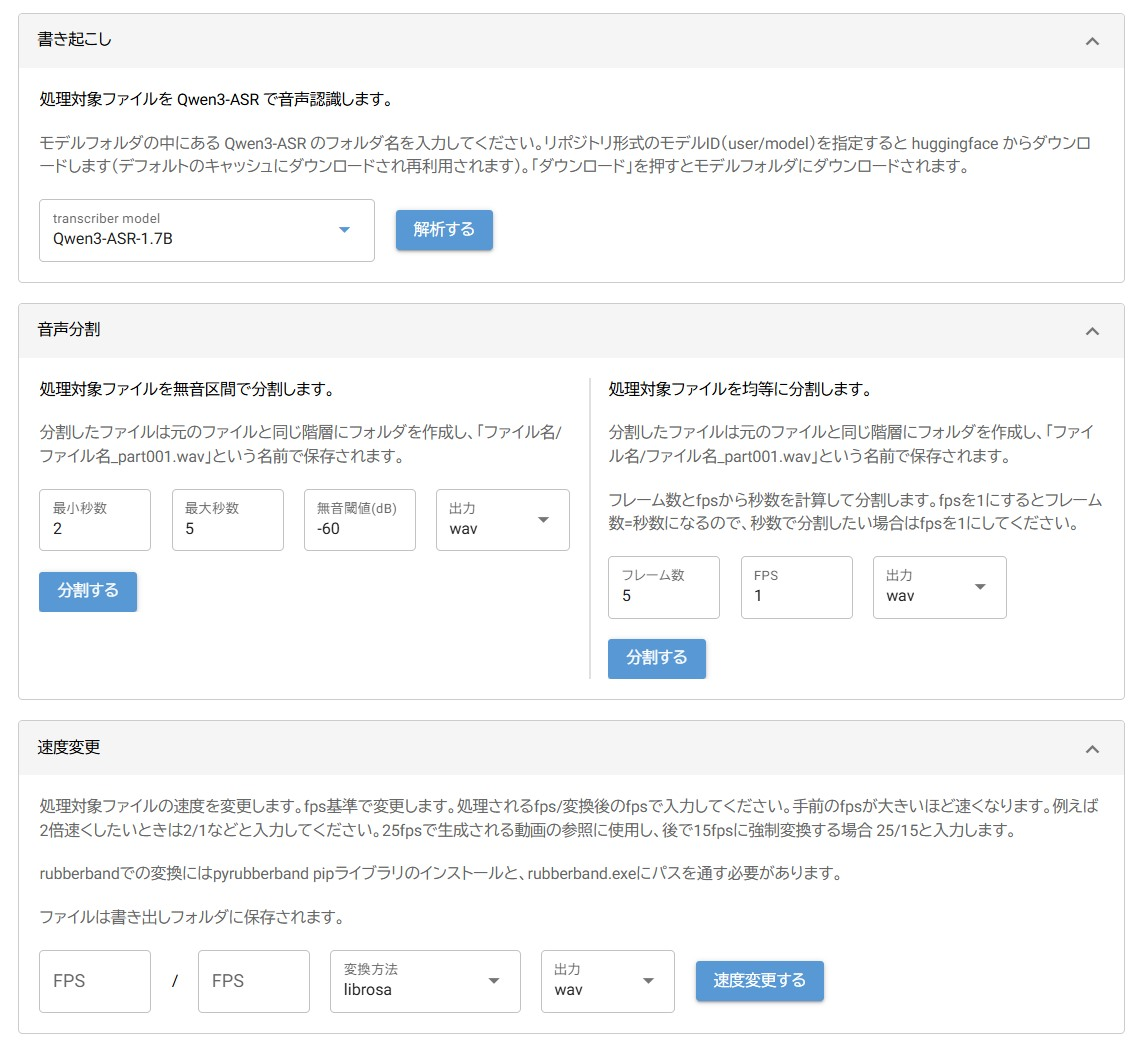
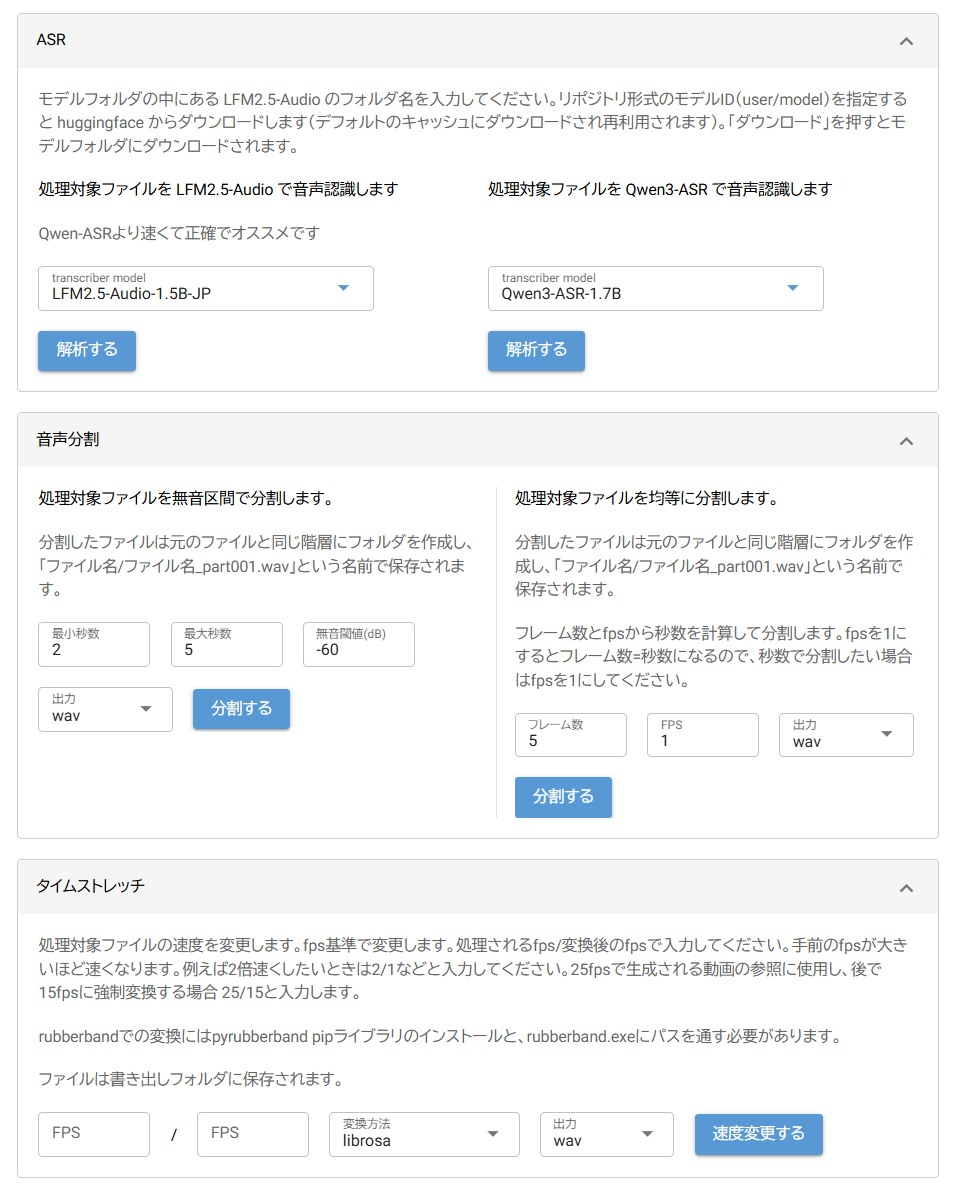
update README

diff --git a/README.md b/README.md
@@ -9,7 +9,7 @@
 - 無音区間で分割、均等に分割
 - タイムストレッチ
 - Irodori-TTS のトレーニング
-
+- Irodori-TTS の推論
 
 ## music
 主に音楽データを扱うページ
@@ -25,6 +25,7 @@
 書き出しフォルダのファイルをDAW風のUIでマルチトラック編集できます。\
 コンピングとかも一応できます。編集結果を書き出すことができます。\
 編集状態は保存できませんが、AAFに書き出せます。コンピングのリージョンはそれぞれのオーディオイベントに変換されます。
+
 
 ## cli/lfm_server.py
 LFM2.5-Audio-1.5B-JPでASRを行うOpenAI互換APIサーバです。姉妹品の [dataset-ui-app](https://github.com/hetima/dataset-ui-app) から利用できます。ベースURLは `http://localhost:7868/v1` です。APIキーは不要です。モデル名も不要ですが、`/models` は `auto` を返します。
@@ -63,10 +64,13 @@ pip install -r requirements.txt
 pip uninstall hf-xet
 ```
 
+
+## スクリーンショット
+
 voice
 ![Screenshot](https://raw.githubusercontent.com/hetima/dataset-ui/main/assets/01.jpg)
 
-music
+Irodori-TTS
 ![Screenshot](https://raw.githubusercontent.com/hetima/dataset-ui/main/assets/02.jpg)
 
 audio-edit
@@ -92,6 +96,7 @@ pnpm deploy
 
 - [zauberzeug/nicegui](https://github.com/zauberzeug/nicegui/)
 - [Aratako/Irodori-TTS](https://github.com/Aratako/Irodori-TTS)
+- [Aratako/Irodori-TTS-Server](https://github.com/Aratako/Irodori-TTS-Server)
 - [naomiaro/waveform-playlist](https://github.com/naomiaro/waveform-playlist)
 - [sampotts/plyr](https://github.com/sampotts/plyr)
 - [Qwen3-ASR support-transformers-v5.4](https://github.com/One-sixth/Qwen3-ASR/tree/support-transformers-v5.4)

diff --git a/CHANGELOG.md b/CHANGELOG.md
@@ -1,5 +1,8 @@
 # Changelog
 
+## 2026-06-16
+- Irodori-TTS 推論
+
 ## 2026-06-10
 - `cli/lfm_server.py` 実装
 - `mtdt.json` の `audiofiles` キーを廃止し、すべて `songs` キーに統一されます。しばらくは互換性のため読み込みはサポートされます
